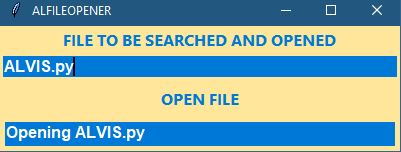
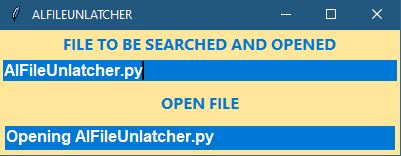
AlFileUnlatcher

diff --git a/AlFileUnlatcher.py b/AlFileUnlatcher.py
@@ -3,10 +3,12 @@ from tkinter import*
 from tkinter import font
 import pyttsx3
 
-class AlFileOpener():
+cwd = os.path.dirname(os.path.realpath(__file__))
+
+class AlFileUnlatcher():
     
     def __init__(self):
-        root = Tk(className = " ALFILEOPENER ")
+        root = Tk(className = " ALFILEUNLATCHER ")
         root.geometry("400x125+1500+890")
         root.config(bg="#ffe69b")
         color = '#ffe69b'
@@ -20,21 +22,26 @@ class AlFileOpener():
 
         def find():
             inputFile = fileText.get()
-            fileName = './AlFileOpener/files_database.lst'
+            fileName = os.path.join(cwd+'\AlFileUnlatcher','files_database.lst')
             if os.path.exists(fileName):
                 pass
             else:
                 dFile = open(fileName, "x")
                 dFile.close()
-            filesList=[]    
+            filesList = []   
+            notFoundList = [] 
             dFile = open(fileName,"r")
             for file in dFile:
                 file = file.replace('\n','')
                 if os.path.basename(file) == inputFile:
-                    filesList.append(file)
+                    if os.path.isfile(file):
+                        filesList.append(file)
+                    else:
+                        notFoundList.append(file)
+                        del(file)
             dFile.close()
-            if not filesList:
-                check = subprocess.check_output('python ./AlFileOpener/AlFileSearcher.py "'+inputFile+'"').decode("utf-8").replace('\r\n',',:;')
+            if (len(filesList) == 0) or (len(notFoundList) != 0 and len(filesList) == 0) or (len(notFoundList) != 0):
+                check = subprocess.check_output(f'python {cwd}\AlFileUnlatcher\AlFileSearcher.py "'+inputFile+'"').decode("utf-8").replace('\r\n',',:;')
                 output = check.split(',:;')[:-1]
                 allFiles = [i + '\n' for i in output]
                 dFile = open(fileName,'a')
@@ -82,4 +89,4 @@ class AlFileOpener():
         root.mainloop()
 
 if __name__ == "__main__":
-    AlFileOpener() 
+    AlFileUnlatcher() 
